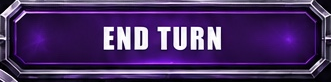
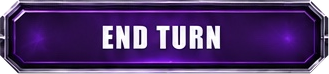
Game board: CSS metal frames, gem-cut jewel, equal card rows, clearer playmat, clean bar buttons
Claude-Session: https://claude.ai/code/session_01LdKXq8S9jHR7uf3aBdYwD1

diff --git a/rebuild/styles/app.css b/rebuild/styles/app.css
@@ -1203,3 +1203,97 @@ input, textarea { user-select: text; -webkit-user-select: text; }
   .game__next { height: 3rem; }
   .game__center { gap: 0.28rem; }
 }
+
+/* ── 20. Clean frames, visible playmat, equal card rows, gem-cut jewel ───────── */
+/* Playmat: only a light veil so the art reads clearly behind every cell. */
+.game__mat {
+  background: linear-gradient(rgba(6, 4, 12, calc(var(--mat-dim, 0.35) * 0.25)), rgba(6, 4, 12, calc(var(--mat-dim, 0.35) * 0.55))), var(--mat-image, none) center / cover no-repeat;
+  box-shadow: inset 0 0 0 1px rgba(0, 0, 0, 0.6);
+}
+
+/* Frames: a thin brushed-metal rim drawn in CSS, so it is crisp at every size. */
+.game__left, .zone--battle, .zone--lands, .zone--hand, .zone--table, .opps, .glog, .tip, .game__bar {
+  position: relative; border: 0; border-radius: 0.7rem; background: rgba(6, 4, 12, 0.14);
+  box-shadow: inset 0 0 1.2rem rgba(0, 0, 0, 0.28), 0 0.15rem 0.5rem rgba(0, 0, 0, 0.45);
+}
+.game__left::before, .zone--battle::before, .zone--lands::before, .zone--hand::before, .zone--table::before, .opps::before, .glog::before, .tip::before, .game__bar::before {
+  content: ""; position: absolute; inset: 0; border-radius: inherit; padding: 2px; pointer-events: none; z-index: 2;
+  background: linear-gradient(135deg, #f1edff 0%, #8f86b3 14%, #4b3f78 32%, #b9a6ff 50%, #453a6e 68%, #9a90bd 86%, #ece7ff 100%);
+  -webkit-mask: linear-gradient(#000 0 0) content-box, linear-gradient(#000 0 0);
+  -webkit-mask-composite: xor; mask-composite: exclude;
+}
+.game__left { background: rgba(6, 4, 12, 0.2); }
+.zone--table, .opps, .glog { background: rgba(10, 7, 20, 0.9); }
+.game__bar { background: linear-gradient(180deg, rgba(34, 18, 74, 0.9), rgba(9, 6, 18, 0.94)); }
+.tip { border: 0; background: linear-gradient(180deg, rgba(40, 26, 10, 0.9), rgba(14, 9, 22, 0.92)); }
+.tip::before { background: linear-gradient(135deg, #ffe7a3, #a87a22 30%, #f2c14e 55%, #7c5613 80%, #ffe7a3); }
+.tip.is-quiet::before { display: none; }
+.phase-box { background: none; }
+.zone__head h3, .zone__head small, .link-btn, .rail-name { text-shadow: 0 1px 2px #000, 0 0 0.5rem rgba(0, 0, 0, 0.9); }
+
+/* Battlefield, lands and hand share the height equally and use one card size. */
+.game__center { grid-template-rows: repeat(3, minmax(0, 1fr)) auto auto; }
+.game--judge .game__center { grid-template-rows: minmax(0, 1fr) auto; }
+.zone--battle, .zone--lands, .zone--hand { --card-h: 30rem; min-height: 0; }
+.zone--battle .zone__cards, .zone--lands .zone__cards, .zone--hand .zone__cards { container-type: size; min-height: 0; align-items: center; }
+.zone--battle .card, .zone--lands .card, .zone--hand .card { --h: min(calc(100cqh - 0.5rem), var(--card-h)); }
+
+/* Jewel: an emerald-cut amethyst in a metal bezel. The action sits on the flat table of the stone. */
+.jewel {
+  position: relative; display: block; width: 10.5rem; height: 4.6rem; margin: 0; border: 0; border-radius: 0; background: none; box-shadow: none;
+  --cut: polygon(1.1rem 0, calc(100% - 1.1rem) 0, 100% 1.1rem, 100% calc(100% - 1.1rem), calc(100% - 1.1rem) 100%, 1.1rem 100%, 0 calc(100% - 1.1rem), 0 1.1rem);
+  filter: drop-shadow(0 0 0.5rem rgba(155, 92, 255, 0.7)) drop-shadow(0 0.2rem 0.3rem rgba(0, 0, 0, 0.8));
+}
+.jewel__gem {
+  position: absolute; inset: 0; padding: 0; border-radius: 0; box-shadow: none; animation: none; clip-path: var(--cut);
+  background: linear-gradient(135deg, #fbfaff, #77738a 22%, #e9e6f4 45%, #4f4c63 70%, #d6d2e6 100%);
+}
+/* crown facets */
+.jewel__gem::before {
+  content: ""; position: absolute; inset: 0.3rem; clip-path: var(--cut);
+  background:
+    linear-gradient(115deg, rgba(255, 255, 255, 0.55) 0 9%, transparent 9% 46%, rgba(255, 255, 255, 0.18) 46% 52%, transparent 52%),
+    conic-gradient(from -64deg at 50% 50%, #e9d9ff 0 35.5%, #5a21cf 35.5% 50%, #1d0756 50% 85.5%, #8a52ff 85.5% 100%);
+}
+/* table */
+.jewel__gem::after {
+  content: ""; position: absolute; inset: 0.95rem 1.15rem;
+  clip-path: polygon(0.6rem 0, calc(100% - 0.6rem) 0, 100% 0.6rem, 100% calc(100% - 0.6rem), calc(100% - 0.6rem) 100%, 0.6rem 100%, 0 calc(100% - 0.6rem), 0 0.6rem);
+  background:
+    linear-gradient(160deg, rgba(255, 255, 255, 0.28) 0 18%, transparent 18%),
+    linear-gradient(180deg, #4a1fb0, #230a66 55%, #34128a);
+}
+.jewel > span {
+  position: absolute; inset: 0; left: 0; bottom: 0; transform: none; z-index: 1; min-width: 0; padding: 0; border: 0; border-radius: 0; background: none; box-shadow: none;
+  display: grid; place-items: center; font: 800 1.2rem/1 var(--font-head); letter-spacing: 0.12em; color: #fff; white-space: nowrap;
+  text-shadow: 0 1px 0 #12052e, 0 0 0.5rem #12052e, 0 0 0.2rem #000;
+}
+.jewel small {
+  position: absolute; left: auto; right: -0.5rem; top: -0.5rem; bottom: auto; transform: none; z-index: 2; min-width: 1.9rem; padding: 0.15rem 0.35rem; border-radius: 1rem;
+  background: #12052e; border: 1px solid #cfcbdd; font: 800 0.95rem/1.2 var(--font-head); color: #fff; text-align: center; text-shadow: none;
+}
+.jewel small:empty { display: none; }
+.jewel:not(.is-idle) { animation: jewel-pulse 2s ease-in-out infinite; }
+.jewel:not(.is-idle) .jewel__gem { animation: none; }
+@keyframes jewel-pulse {
+  50% { filter: drop-shadow(0 0 1.3rem rgba(200, 160, 255, 1)) drop-shadow(0 0 0.4rem rgba(255, 255, 255, 0.7)) brightness(1.18); }
+}
+.jewel.is-idle { filter: drop-shadow(0 0.2rem 0.3rem rgba(0, 0, 0, 0.8)); }
+.jewel.is-idle .jewel__gem { filter: saturate(0.25) brightness(0.55); }
+.jewel.is-idle > span { color: #b9b4cc; }
+@media (prefers-reduced-motion: reduce) { .jewel:not(.is-idle) { animation: none; filter: drop-shadow(0 0 1rem rgba(200, 160, 255, 1)); } }
+.game__next { height: auto; }
+.game__next img { height: 3.4rem; width: auto; display: block; }
+
+@media (min-width: 1000px) and (min-height: 700px) {
+  .jewel { width: 12.5rem; height: 5.2rem; }
+  .jewel > span { font-size: 1.4rem; }
+  .game__next img { height: 4rem; }
+}
+@media not all and (min-width: 1000px) and (min-height: 700px) {
+  .jewel { width: 9rem; height: 3.7rem; margin: 0; }
+  .jewel > span { font-size: 1.05rem; min-width: 0; padding: 0; }
+  .jewel__gem::after { inset: 0.75rem 0.95rem; }
+  .game__next img { height: 3rem; }
+  .game__bar { min-height: 4.3rem; }
+}

diff --git a/rebuild/src/version.js b/rebuild/src/version.js
@@ -1,4 +1,4 @@
 // The single build stamp. Shown on the landing screen and used by the service worker
 // to tell one release from the next. Change it once per release, then run `node tools/stamp.mjs` so build.json (which devices check for updates) matches.
-export const VERSION = '1.0.0-rebuild.12';
+export const VERSION = '1.0.0-rebuild.13';
 export const BUILD_DATE = '2026-10-04';

diff --git a/rebuild/sw.js b/rebuild/sw.js
@@ -4,7 +4,7 @@
 // release is picked up on the next load — no per-file cache tokens to maintain. The cache
 // is only used when the device is offline.
 
-const CACHE = 'commander-companion-v12';
+const CACHE = 'commander-companion-v13';
 
 self.addEventListener('install', () => self.skipWaiting());
 
